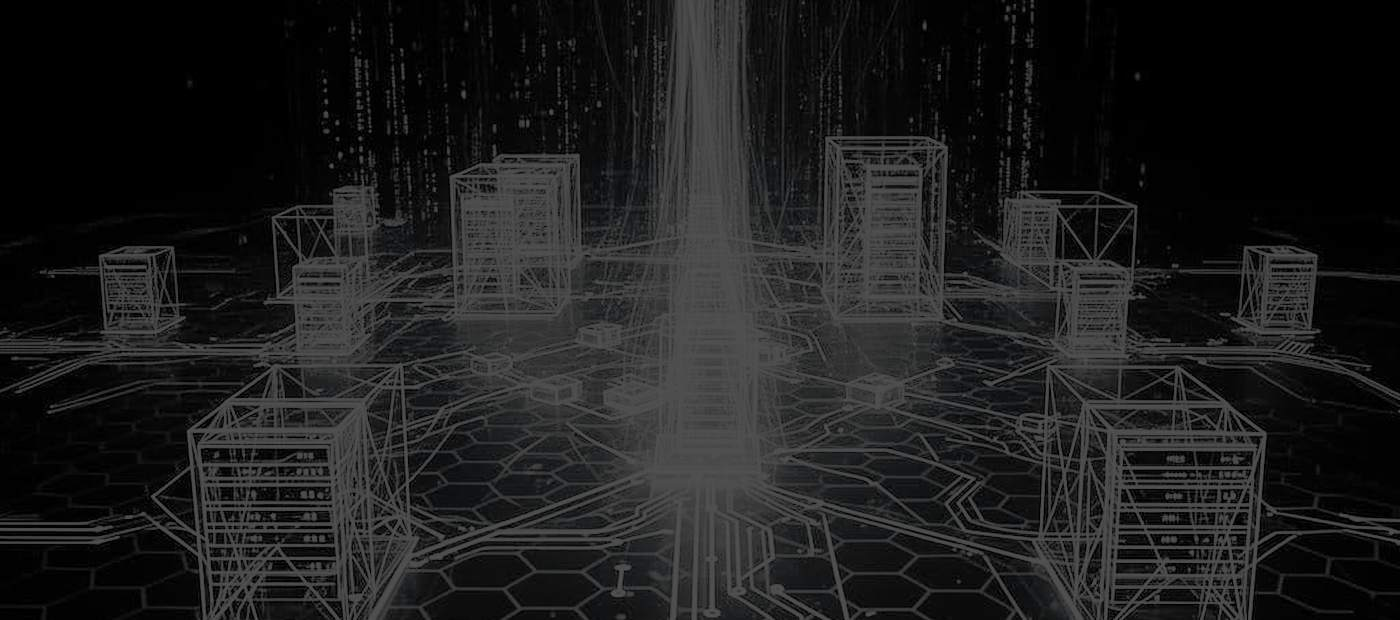
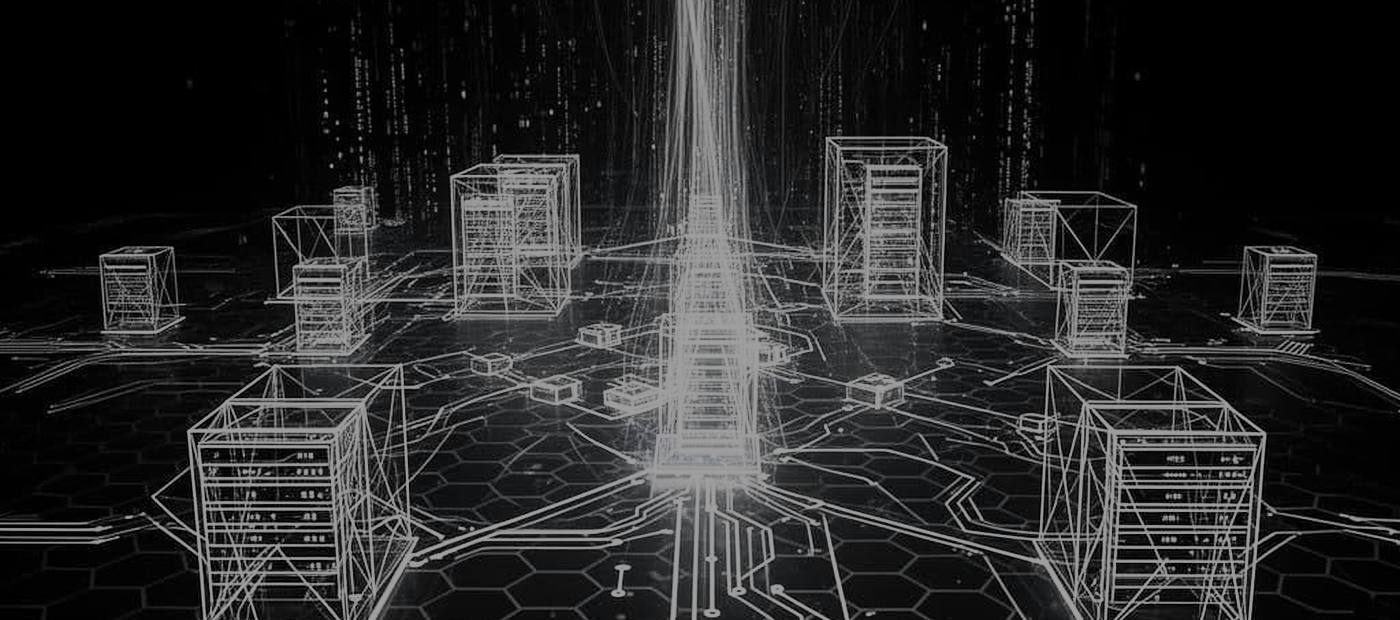
Sweep the maintenance frames in from the right, and lift them
Reveal
  The frame is now uncovered from the right edge inward rather than
  faded up in place. inset() clips from the left, so animating that side
  from 100 to 0 sweeps the opening edge leftward across the row. 720ms
  on a decelerating curve going in, 460ms coming back out, which is 64%
  of it. Opacity only takes the hard edge off the first frame.
  Measured: the edge sits at 63% after 60ms, 26% at 150, 9% at 260, 2.5%
  at 380 and closed by 760.

Brightness
  The ceiling on these was never the file, it was the text over them.
  Rows carry copy edge to edge, so the binding number is what stays
  legible against the frame. Against the resting grey the frame has to
  stay under a luminance of 0.034. Lifting the copy to full ink on hover
  moves that ceiling to 0.157, which is 4.7 times the room, and the lift
  doubles as the row acknowledging the pointer.

  That paid for peak luminance going from 0.047 to between 0.35 and
  0.58, saturation from 0.30 to 0.95, and the reveal from 0.58 to 0.70.
  Roughly seven times the peak of two commits ago. Ceilings stay per
  frame: at a shared value the AI frame came out at 4.53:1, too close to
  the line, while the others sat well clear of theirs.

  All four land between 5.27 and 5.76:1 on body copy and 5.94 to 6.50:1
  on headings.

Dropped the resting scale on the frame. It let the layer overhang its
row by two to three pixels between 600 and 834px, and containing that
[…]

Changed region(s): [[0.0, 0.0, 1.0, 1.0], [0.9829, 0.6129, 1.0, 0.6435], [0.6143, 0.7661, 0.645, 0.7968]]

diff --git a/index.html b/index.html
@@ -500,6 +500,7 @@ html.js .panel:not([hidden]){animation:pin .4s var(--ease-out) both}
 .op-list{position:relative;columns:2;column-gap:var(--space-7)}
 .op li{
   break-inside:avoid;font-size:14px;line-height:1.5;color:var(--band-ink-2);
+  transition:color var(--t-3) var(--ease);
   padding:var(--space-2) 0 var(--space-2) var(--space-4);position:relative;
 }
 .op li::before{
@@ -516,8 +517,14 @@ html.js .panel:not([hidden]){animation:pin .4s var(--ease-out) both}
 .op-shot{
   position:absolute;inset:0;z-index:0;pointer-events:none;
   background-repeat:no-repeat;background-size:cover;background-position:center;
-  opacity:0;transform:scale(1.035);transform-origin:70% 50%;
-  transition:opacity var(--t-3) var(--ease),transform var(--t-4) var(--ease-out);
+  /* the frame is uncovered from the right edge inward. inset() clips from the
+     left, so animating that side from 100% to 0 sweeps the opening edge
+     leftward across the row. */
+  clip-path:inset(0 0 0 100%);
+  opacity:0;
+  transition:
+    clip-path 460ms var(--ease-in),
+    opacity 200ms var(--ease-in) 120ms;
 }
 @media (hover:hover) and (pointer:fine){
   .op-ai     .op-shot{background-image:url("assets/ops-ai.jpg")}
@@ -528,11 +535,26 @@ html.js .panel:not([hidden]){animation:pin .4s var(--ease-out) both}
     -webkit-mask-image:linear-gradient(to right,transparent 0,transparent 26%,rgba(0,0,0,.55) 58%,#000 100%);
             mask-image:linear-gradient(to right,transparent 0,transparent 26%,rgba(0,0,0,.55) 58%,#000 100%);
   }
-  .op:hover .op-shot{opacity:.58;transform:none}
+  .op:hover .op-shot{
+    clip-path:inset(0 0 0 0);opacity:.7;
+    /* the wipe is the whole gesture; opacity only takes the hard edge off the
+       start. Leaving runs at 64% of arriving. */
+    transition:
+      clip-path 720ms var(--ease-out),
+      opacity 220ms var(--ease-out);
+  }
   .op:hover .op-head .ic{color:var(--band-ink)}
+  /* Lifting the copy is what pays for the brightness. Against #9A9AA1 the
+     frame behind it has to stay under a luminance of 0.034; against full ink
+     the ceiling is 0.157, which is 4.7 times the room. */
+  .op:hover .op-list li{color:var(--band-ink)}
 }
 @media (prefers-reduced-motion:reduce){
-  .op-shot{transition:opacity var(--t-2) var(--ease);transform:none}
+  /* no sweep: the frame is simply there or not */
+  .op-shot,.op:hover .op-shot{
+    transition:opacity var(--t-2) var(--ease);clip-path:none;
+  }
+  .op-shot{opacity:0}
 }
 
 
@@ -1100,13 +1122,14 @@ html:not(.js) .rv{opacity:1;transform:none}
      it is held flat across the text block and then released entirely, so the
      picture is unmodified everywhere below the last line of type.
 
-     The four on the right cannot do that, because their rows carry text edge
-     to edge: only 6 to 17 per cent of each row is clear of glyphs. They run
-     through a highlight rolloff instead of a flat darken, so the midtones keep
-     their brightness and only the specular points are held down, and each one
-     has its own ceiling rather than a shared one. The wireframe carries far
-     more lit area than the rest, so a shared ceiling was leaving the other
-     three a stop darker than they needed to be. -->
+     The four on the right carry text edge to edge, so how bright they can go
+     is set by what is legible over them, not by the file. Lifting the list
+     copy to full ink on hover is what buys the brightness: against the resting
+     grey the frame has to stay under a luminance of 0.034, against full ink
+     the ceiling is 0.157, which is 4.7 times the room. That is what let the
+     peak go from 0.047 to between 0.35 and 0.58 and the saturation from 0.30
+     to 0.95. Each frame still has its own ceiling, because the wireframe
+     carries far more lit area than the rest. -->
 <!-- Asymmetric split rather than a fourth run of equal columns. The heading
      column is sticky, so the reader keeps the section's subject while the four
      domains scroll past it, and the domains are free to take the height their
